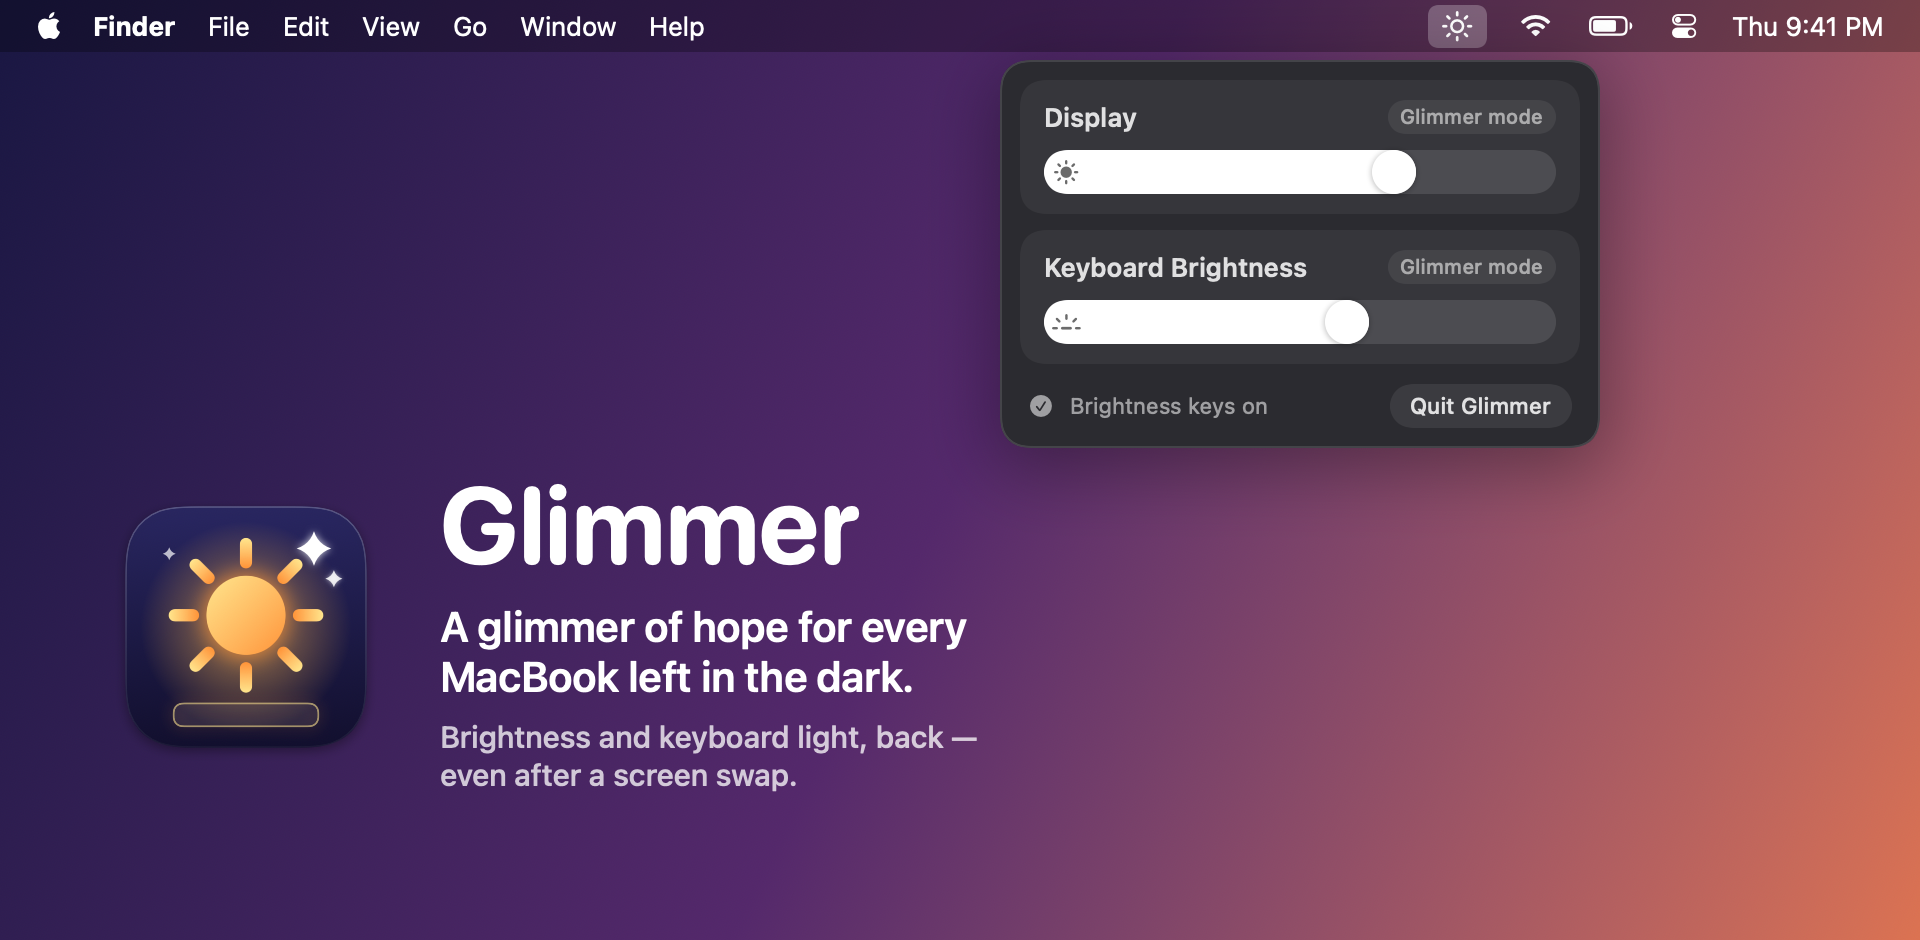
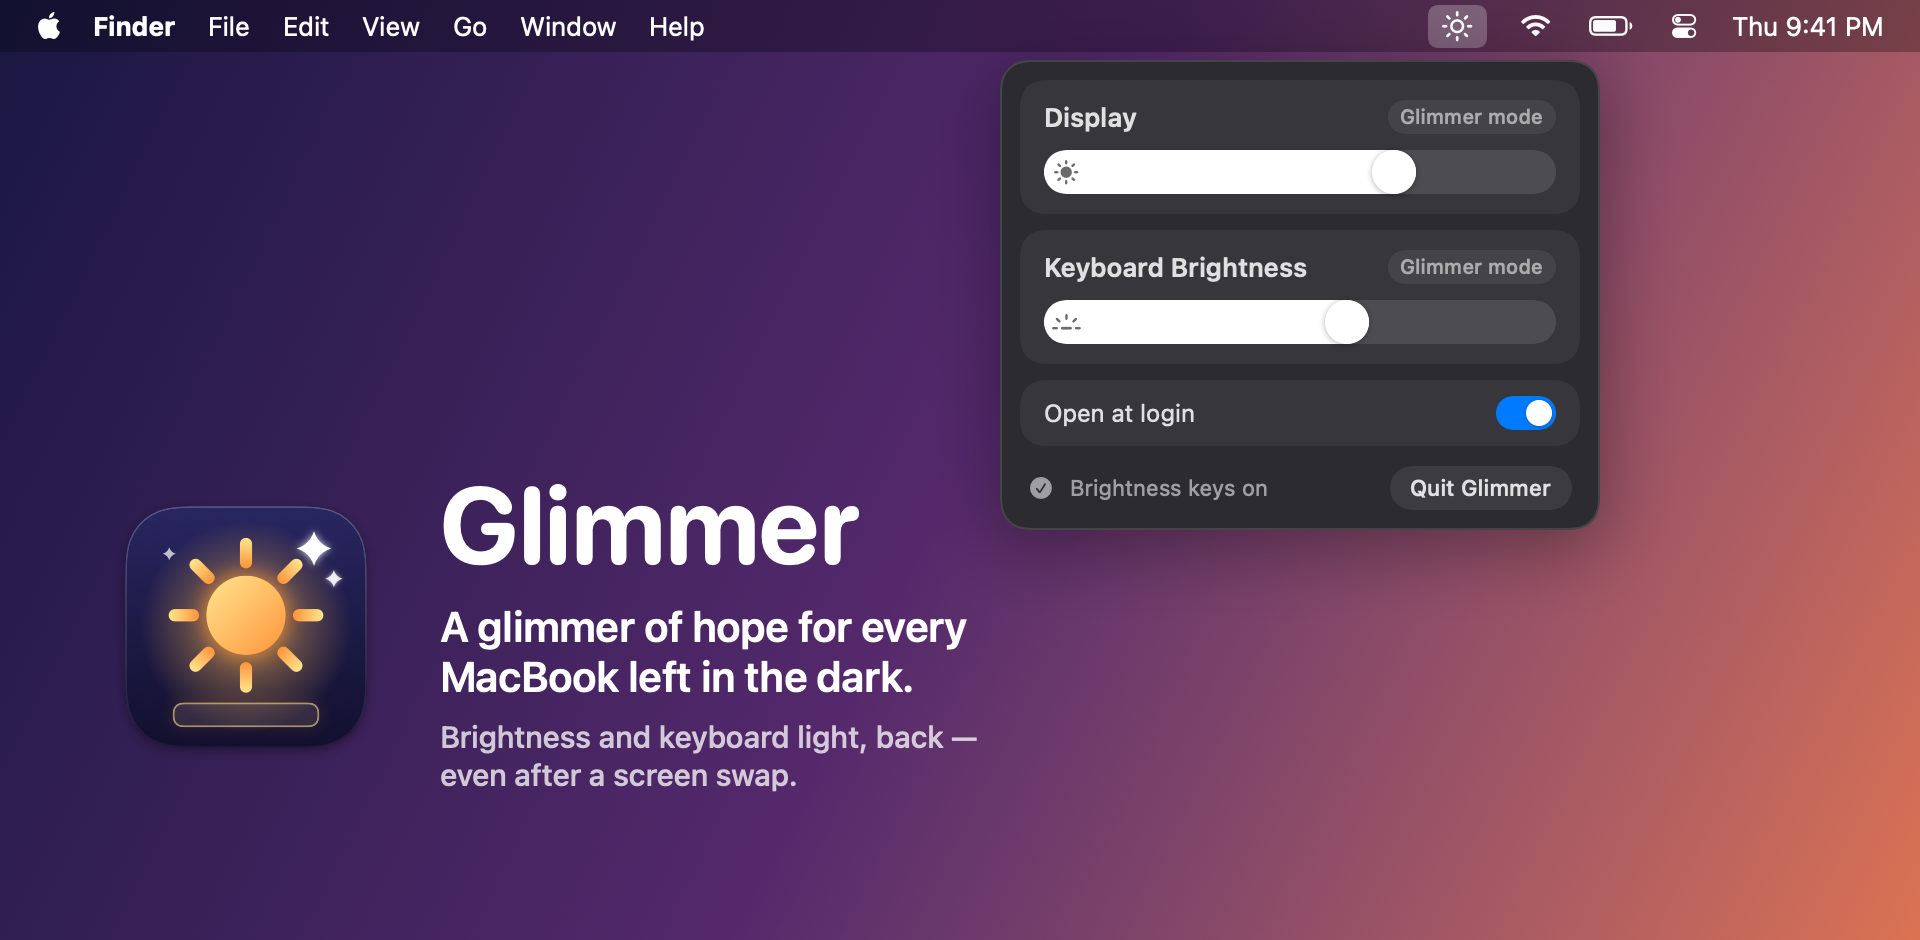
v1.1.0: drag-to-install DMG and built-in "Open at login"
- Glimmer registers itself as a login item on first launch (SMAppService);
  "Open at login" switch in the panel; uninstall unregisters it
- Warns and quits if run straight from the disk image
- scripts/make-dmg.sh builds a signed dist/Glimmer-<version>.dmg with an
  Applications shortcut, volume icon and Read Me
- install.sh now opens the app instead of writing a launch agent (and
  removes the old agent)
- README: Download-first TL;DR and install section, Open Anyway note,
  refreshed screenshots

Changed region(s): [[0.5, 0.4011, 0.8438, 0.5862]]

diff --git a/Sources/Model.swift b/Sources/Model.swift
@@ -14,6 +14,11 @@ final class GlimmerModel: ObservableObject {
     @Published var screen: Double = 1 { didSet { screenChanged(oldValue) } }
     @Published var keyboard: Double = 0.75 { didSet { keyboardChanged(oldValue) } }
     @Published var keysActive = false
+    /// Mirrors System Settings → Login Items. Preview models never touch it.
+    @Published var openAtLogin = false {
+        didSet { if !isPreview, openAtLogin != oldValue, openAtLogin != LoginItem.isEnabled { openAtLogin = LoginItem.set(openAtLogin) } }
+    }
+    private var isPreview = false
     @Published private(set) var screenWorkaround = false
     @Published private(set) var keyboardWorkaround = false
     @Published private(set) var hasKeyboard = false
@@ -25,12 +30,15 @@ final class GlimmerModel: ObservableObject {
         screenBackend = makeScreenBrightness()
         keyboardBackend = makeKeyboardBacklight()
         detect()
+        openAtLogin = LoginItem.isEnabled
     }
 
     /// A model that never touches the hardware — used to render screenshots.
     init(previewScreen: Double, keyboard: Double, workaround: Bool) {
+        isPreview = true
         screenBackend = PreviewScreen(isWorkaround: workaround)
         keyboardBackend = PreviewKeyboard(isWorkaround: workaround)
+        openAtLogin = true
         screenWorkaround = workaround
         keyboardWorkaround = workaround
         hasKeyboard = true
@@ -67,6 +75,7 @@ final class GlimmerModel: ObservableObject {
 
     /// Pull the current levels from macOS for native backends (it may have changed them).
     func refreshFromSystem() {
+        if !isPreview { openAtLogin = LoginItem.isEnabled }
         syncing = true
         if !screenWorkaround, let v = screenBackend.currentLevel() { screen = v }
         if !keyboardWorkaround, let v = keyboardBackend?.currentLevel() { keyboard = v }

diff --git a/Sources/main.swift b/Sources/main.swift
@@ -13,6 +13,19 @@ final class AppDelegate: NSObject, NSApplicationDelegate {
     private let popover = NSPopover()
 
     func applicationDidFinishLaunching(_ note: Notification) {
+        if runningFromDiskImage() {
+            let alert = NSAlert()
+            alert.messageText = "Move Glimmer to Applications"
+            alert.informativeText = "Glimmer is running from the disk image. Drag Glimmer into the Applications folder, then open it from there so it can start at login."
+            alert.addButton(withTitle: "Quit")
+            NSApp.activate(ignoringOtherApps: true)
+            alert.runModal()
+            NSApp.terminate(nil)
+            return
+        }
+        LoginItem.enableOnFirstLaunch()
+        model.openAtLogin = LoginItem.isEnabled
+
         statusItem = NSStatusBar.system.statusItem(withLength: NSStatusItem.squareLength)
         statusItem.button?.image = NSImage(systemSymbolName: "sun.max", accessibilityDescription: "Glimmer")
         statusItem.button?.target = self
@@ -78,6 +91,18 @@ final class AppDelegate: NSObject, NSApplicationDelegate {
 }
 
 let app = NSApplication.shared
+
+/// True when launched from a mounted DMG (or a quarantined, translocated copy of one).
+func runningFromDiskImage() -> Bool {
+    let path = Bundle.main.bundlePath
+    return path.hasPrefix("/Volumes/") || path.contains("/AppTranslocation/")
+}
+
+// `Glimmer --unregister-login-item`: used by scripts/uninstall.sh.
+if CommandLine.arguments.contains("--unregister-login-item") {
+    LoginItem.set(false)
+    exit(0)
+}
 
 // `Glimmer --render-assets <dir>`: draw the icon and README images, then exit.
 if let i = CommandLine.arguments.firstIndex(of: "--render-assets") {

diff --git a/Sources/Panel.swift b/Sources/Panel.swift
@@ -84,6 +84,24 @@ struct PillButtonStyle: ButtonStyle {
     }
 }
 
+/// Small on/off switch (pure SwiftUI, so it also renders in screenshots).
+struct PillSwitch: View {
+    @Binding var isOn: Bool
+    var body: some View {
+        ZStack(alignment: isOn ? .trailing : .leading) {
+            Capsule().fill(isOn ? Color.accentColor : Color.primary.opacity(0.18))
+            Circle().fill(Color.white).padding(2).shadow(color: .black.opacity(0.2), radius: 1, y: 0.5)
+        }
+        .frame(width: 30, height: 17)
+        .contentShape(Capsule())
+        .onTapGesture { withAnimation(.easeOut(duration: 0.15)) { isOn.toggle() } }
+        .accessibilityElement()
+        .accessibilityLabel("Open at login")
+        .accessibilityValue(isOn ? "On" : "Off")
+        .accessibilityAddTraits(.isButton)
+    }
+}
+
 struct PanelView: View {
     @ObservedObject var model: GlimmerModel
     let enableKeys: () -> Void
@@ -98,6 +116,14 @@ struct PanelView: View {
                     CapsuleSlider(value: $model.keyboard, symbol: "light.max")
                 }
             }
+            HStack {
+                Text("Open at login").font(.system(size: 12))
+                Spacer()
+                PillSwitch(isOn: $model.openAtLogin)
+            }
+            .padding(.horizontal, 12)
+            .padding(.vertical, 8)
+            .background(RoundedRectangle(cornerRadius: 12, style: .continuous).fill(Color.primary.opacity(0.06)))
             HStack(spacing: 8) {
                 if !model.needsKeys {
                     Label("Using macOS controls", systemImage: "checkmark.circle")

diff --git a/Sources/LoginItem.swift b/Sources/LoginItem.swift
@@ -1,0 +1,29 @@
+// LoginItem.swift — Glimmer
+//
+// "Open at login" through macOS's own login-items service (System Settings → General →
+// Login Items), so installing is just dragging Glimmer into Applications.
+
+import Foundation
+import ServiceManagement
+
+enum LoginItem {
+    static var isEnabled: Bool { SMAppService.mainApp.status == .enabled }
+
+    @discardableResult
+    static func set(_ on: Bool) -> Bool {
+        do {
+            if on { try SMAppService.mainApp.register() } else { try SMAppService.mainApp.unregister() }
+        } catch {
+            NSLog("Glimmer: login item \(on ? "register" : "unregister") failed: \(error.localizedDescription)")
+        }
+        return isEnabled
+    }
+
+    /// Turn "Open at login" on the first time Glimmer runs — that's what people install it for.
+    static func enableOnFirstLaunch() {
+        let key = "loginItemConfigured"
+        guard !UserDefaults.standard.bool(forKey: key) else { return }
+        set(true)
+        UserDefaults.standard.set(true, forKey: key)
+    }
+}

diff --git a/README.md b/README.md
@@ -19,15 +19,18 @@
 keys do nothing?** It isn't broken hardware. macOS doesn't recognise the new panel, so it
 gives up on brightness. Glimmer is a tiny menu bar app that takes over where macOS gave up.
 
-**Install** (needs the Xcode Command Line Tools: `xcode-select --install`):
+**Install in a minute:**
 
-```bash
-git clone git@github.com:adfleshner/mac-glimmer.git && cd mac-glimmer && ./scripts/install.sh
-```
+1. **[Download Glimmer.dmg](https://github.com/adfleshner/mac-glimmer/releases/latest)** from Releases, open it and drag **Glimmer** onto **Applications**.
+2. Open Glimmer from Applications. If macOS says it *can't be opened*, go to
+   **System Settings → Privacy & Security** and click **Open Anyway** (once — Glimmer isn't notarized by Apple).
+3. Click the **☀** in the menu bar. If it shows **Enable brightness keys…**, click it and switch
+   Glimmer on in **System Settings → Privacy & Security → Accessibility**.
 
-Then click the **☀** in the menu bar and, if it asks, choose **Enable brightness keys…**
-and switch Glimmer on in **System Settings → Privacy & Security → Accessibility**.
-That's it. It starts at every login. To remove it: `./scripts/uninstall.sh`.
+That's it. Glimmer opens at every login (switch it off with **Open at login** in its panel).
+To remove it, quit it from the panel and drag it to the Trash.
+
+Prefer to build it yourself? `git clone git@github.com:adfleshner/mac-glimmer.git && cd mac-glimmer && ./scripts/install.sh`
 
 ---
 
@@ -105,18 +108,31 @@ anyone with the same problem can install in a minute.
 
 ## Install
 
+### Download (recommended)
+
+1. Grab **Glimmer-x.y.z.dmg** from the [latest release](https://github.com/adfleshner/mac-glimmer/releases/latest).
+2. Open it and drag **Glimmer** onto **Applications**, then open Glimmer from Applications.
+   (Running it straight from the disk image just reminds you to move it first.)
+3. First launch only: if macOS says Glimmer *can't be opened* or *can't be verified*, open
+   **System Settings → Privacy & Security** and click **Open Anyway**. Glimmer is free and open
+   source but isn't notarized by Apple, so macOS asks once.
+
+Glimmer adds itself to **Login Items** the first time it runs; switch that off any time with
+**Open at login** in its panel (or in System Settings → General → Login Items).
+
+If your Mac needs the brightness-key workaround, the panel shows **Enable brightness keys…** —
+click it and switch Glimmer on in **System Settings → Privacy & Security → Accessibility**.
+
+### Build from source
+
 Requires the Xcode Command Line Tools (`xcode-select --install`).
 
 ```bash
 git clone git@github.com:adfleshner/mac-glimmer.git
 cd mac-glimmer
-./scripts/install.sh
+./scripts/install.sh      # builds, copies to ~/Applications and opens it
+./scripts/make-dmg.sh     # or: build the drag-to-install disk image into ./dist
 ```
-
-This builds Glimmer, copies it to `~/Applications/Glimmer.app`, and starts it now and at every login.
-
-If your Mac needs the brightness-key workaround, the panel shows **Enable brightness keys…** —
-click it and switch Glimmer on in **System Settings → Privacy & Security → Accessibility**.
 
 > **Tip:** to keep that permission across rebuilds, build with a real signing identity
 > (`SIGN_IDENTITY=… ./scripts/build.sh`; the build script picks up an "Apple Development"
@@ -124,8 +140,10 @@ click it and switch Glimmer on in **System Settings → Privacy & Security → A
 
 ### Uninstall
 
+Quit Glimmer from its panel and drag it to the Trash — or, from the source folder:
+
 ```bash
-./scripts/uninstall.sh
+./scripts/uninstall.sh   # also removes the login item, settings and permission
 ```
 
 ### Icon and screenshots
